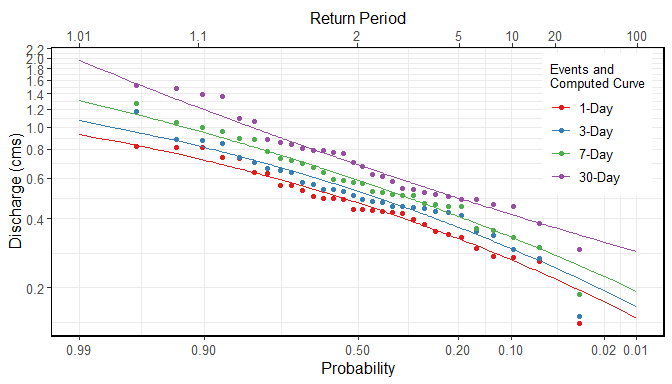
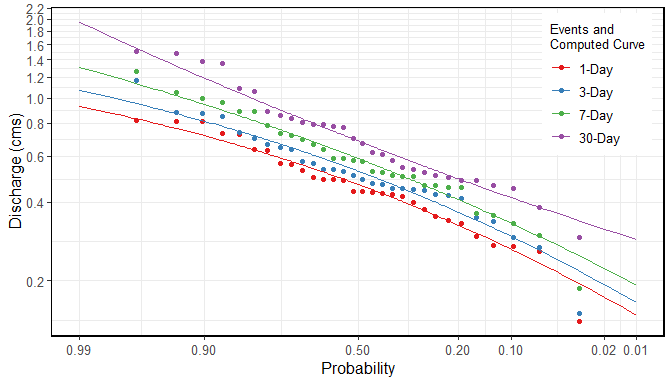
README updates

diff --git a/README.md b/README.md
@@ -3,8 +3,9 @@
 fasstr <img src="tools/readme/fasstr.PNG" align="right" />
 ==========================================================
 
-<a rel="Exploration" href="https://github.com/BCDevExchange/docs/blob/master/discussion/projectstates.md"><img alt="Being designed and built, but in the lab. May change, disappear, or be buggy." style="border-width:0" src="https://assets.bcdevexchange.org/images/badges/exploration.svg" title="Being designed and built, but in the lab. May change, disappear, or be buggy." /></a> [![Travis build status](https://travis-ci.org/bcgov/fasstr.svg?branch=master)](https://travis-ci.org/bcgov/fasstr)
+<a id="devex-badge" rel="Delivery" href="https://github.com/BCDevExchange/assets/blob/master/README.md"><img alt="In production, but maybe in Alpha or Beta. Intended to persist and be supported." style="border-width:0" src="https://assets.bcdevexchange.org/images/badges/delivery.svg" title="In production, but maybe in Alpha or Beta. Intended to persist and be supported." /></a> [![Travis build status](https://travis-ci.org/bcgov/fasstr.svg?branch=master)](https://travis-ci.org/bcgov/fasstr)
 
+</div>
 The Flow Analysis Summary Statistics Tool for R (`fasstr`) is a set of [R](http://www.r-project.org) functions to clean/prepare, summarize, analyze, trend, and visualize streamflow data. This package summarizes continuous daily mean streamflow data into various daily, monthly, annual, and long-term statistics, completes annual trends and frequency analyses, in both table and plot formats.
 
 Features
@@ -32,8 +33,8 @@ Installation
 To install the `fasstr` package, you need to install the `devtools` package then the `fasstr` package
 
 ``` r
-install.packages("devtools")
-devtools::install_github("bcgov/fasstr", build_vignettes = TRUE)
+install.packages("remotes")
+remotes::install_github("bcgov/fasstr")
 ```
 
 Then to call the `fasstr` functions you can either load the package using the `library()` function or access a specific function using a double-colon (e.g. `fasstr::calc_daily_stats()`). Several other packages will be installed in addition including [tidyhydat](https://cran.r-project.org/web/packages/tidyhydat/index.html) for data gathering, [zyp](https://cran.r-project.org/web/packages/zyp/index.html) for trending, [ggplot2](https://cran.r-project.org/web/packages/ggplot2/index.html) for creating plots, and [dplyr](https://cran.r-project.org/web/packages/dplyr/index.html) and [tidyr](https://cran.r-project.org/web/packages/tidyr/index.html) for various data wrangling and summarizing functions, amongst others. Many of the other packages are required for the frequency analysis functions.
@@ -55,15 +56,15 @@ Using the `data` option, a data frame of daily data containing columns of dates 
 
 ``` r
 head(data)
-# A tibble: 6 x 3
-  STATION_NUMBER Date       Value
-  <chr>          <date>     <dbl>
-1 08NM116        1949-04-01  1.13
-2 08NM116        1949-04-02  1.53
-3 08NM116        1949-04-03  2.07
-4 08NM116        1949-04-04  2.07
-5 08NM116        1949-04-05  2.21
-6 08NM116        1949-04-06  2.21
+#> # A tibble: 6 x 3
+#>   STATION_NUMBER Date       Value
+#>   <chr>          <date>     <dbl>
+#> 1 08NM116        1949-04-01  1.13
+#> 2 08NM116        1949-04-02  1.53
+#> 3 08NM116        1949-04-03  2.07
+#> 4 08NM116        1949-04-04  2.07
+#> 5 08NM116        1949-04-05  2.21
+#> 6 08NM116        1949-04-06  2.21
 ```
 
 Alternatively, you can directly extract a flow data set directly from a HYDAT database by listing station numbers in the `station_number` argument (ex. `station_number = "08NM116"` or `station_number = c("08NM116", "08NM242")`) while leavind the data arguments blank. A data frame of daily streamflow data for all stations listed will be extracted using `tidyhydat`. Use the following function to download a HYDAT database:
@@ -125,23 +126,23 @@ calc_longterm_stats(station_number = "08NM116",
                     end_year = 2010,
                     custom_months = 7:9, 
                     custom_months_label = "Summer")
-# A tibble: 14 x 8
-   STATION_NUMBER Month      Mean Median Maximum Minimum   P10   P90
- * <chr>          <fct>     <dbl>  <dbl>   <dbl>   <dbl> <dbl> <dbl>
- 1 08NM116        Jan        1.22  1        9.5    0.160 0.540  1.85
- 2 08NM116        Feb        1.16  0.970    4.41   0.140 0.474  1.99
- 3 08NM116        Mar        1.85  1.40     9.86   0.380 0.705  3.80
- 4 08NM116        Apr        8.32  6.26    37.9    0.505 1.63  17.5 
- 5 08NM116        May       23.6  20.8     74.4    3.83  9.33  41.2 
- 6 08NM116        Jun       21.5  19.5     84.5    0.450 6.10  38.9 
- 7 08NM116        Jul        6.48  3.90    54.5    0.332 1.02  15   
- 8 08NM116        Aug        2.13  1.57    13.3    0.427 0.775  4.29
- 9 08NM116        Sep        2.19  1.58    14.6    0.364 0.735  4.35
-10 08NM116        Oct        2.10  1.60    15.2    0.267 0.794  3.98
-11 08NM116        Nov        2.04  1.73    11.7    0.260 0.560  3.90
-12 08NM116        Dec        1.30  1.05     7.30   0.342 0.5    2.33
-13 08NM116        Long-term  6.17  1.89    84.5    0.140 0.680 19.3 
-14 08NM116        Summer     3.61  1.98    54.5    0.332 0.799  7.64
+#> # A tibble: 14 x 8
+#>    STATION_NUMBER Month      Mean Median Maximum Minimum   P10   P90
+#>  * <chr>          <fct>     <dbl>  <dbl>   <dbl>   <dbl> <dbl> <dbl>
+#>  1 08NM116        Jan        1.22  1        9.5    0.160 0.540  1.85
+#>  2 08NM116        Feb        1.16  0.970    4.41   0.140 0.474  1.99
+#>  3 08NM116        Mar        1.85  1.40     9.86   0.380 0.705  3.80
+#>  4 08NM116        Apr        8.32  6.26    37.9    0.505 1.63  17.5 
+#>  5 08NM116        May       23.6  20.8     74.4    3.83  9.33  41.2 
+#>  6 08NM116        Jun       21.5  19.5     84.5    0.450 6.10  38.9 
+#>  7 08NM116        Jul        6.48  3.90    54.5    0.332 1.02  15   
+#>  8 08NM116        Aug        2.13  1.57    13.3    0.427 0.775  4.29
+#>  9 08NM116        Sep        2.19  1.58    14.6    0.364 0.735  4.35
+#> 10 08NM116        Oct        2.10  1.60    15.2    0.267 0.794  3.98
+#> 11 08NM116        Nov        2.04  1.73    11.7    0.260 0.560  3.90
+#> 12 08NM116        Dec        1.30  1.05     7.30   0.342 0.5    2.33
+#> 13 08NM116        Long-term  6.17  1.89    84.5    0.140 0.680 19.3 
+#> 14 08NM116        Summer     3.61  1.98    54.5    0.332 0.799  7.64
 ```
 
 ### Plotting example 1: daily summary statistics
@@ -155,7 +156,7 @@ plot_daily_stats(station_number = "08NM116",
                  log_discharge = TRUE,
                  include_year = 1991,
                  ignore_missing = TRUE)
-$Daily_Statistics
+#> $Daily_Statistics
 ```
 
 ![](tools/readme/README-plot1-1.png)
@@ -168,7 +169,7 @@ Flow duration curves can be produced using the `plot_flow_duration()` function.
 plot_flow_duration(station_number = "08NM116",
                    start_year = 1981,
                    end_year = 2010)
-$Flow_Duration
+#> $Flow_Duration
 ```
 
 ![](tools/readme/README-plot2-1.png)
@@ -183,20 +184,20 @@ freq_results <- compute_annual_frequencies(station_number = "08NM116",
                                            end_year = 2010,
                                            roll_days = 7)
 freq_results$Freq_Fitted_Quantiles
-# A tibble: 11 x 4
-   Distribution Probability `Return Period` `7-Day`
-   <chr>              <dbl>           <dbl>   <dbl>
- 1 PIII               0.01           100      0.193
- 2 PIII               0.05            20      0.277
- 3 PIII               0.1             10      0.332
- 4 PIII               0.2              5      0.408
- 5 PIII               0.5              2      0.588
- 6 PIII               0.8              1.25   0.812
- 7 PIII               0.9              1.11   0.946
- 8 PIII               0.95             1.05   1.07 
- 9 PIII               0.975            1.03   1.17 
-10 PIII               0.98             1.02   1.21 
-11 PIII               0.99             1.01   1.31 
+#> # A tibble: 11 x 4
+#>    Distribution Probability `Return Period` `7-Day`
+#>    <chr>              <dbl>           <dbl>   <dbl>
+#>  1 PIII               0.01           100      0.193
+#>  2 PIII               0.05            20      0.277
+#>  3 PIII               0.1             10      0.332
+#>  4 PIII               0.2              5      0.408
+#>  5 PIII               0.5              2      0.588
+#>  6 PIII               0.8              1.25   0.812
+#>  7 PIII               0.9              1.11   0.946
+#>  8 PIII               0.95             1.05   1.07 
+#>  9 PIII               0.975            1.03   1.17 
+#> 10 PIII               0.98             1.02   1.21 
+#> 11 PIII               0.99             1.01   1.31
 ```
 
 The probabilty of observed extreme events can also be plotted (using selected plotting position) along with the computed quantiles curve for comparison.

diff --git a/NEWS.md b/NEWS.md
@@ -1,15 +1,17 @@
 fasstr 0.2.8
 =========================
 
-Updated: 27 November 2018
+Updated: 11 December 2018
 
 #### Updates:
 
+  # README updates
   * Renamed calc_lt_mad() and calc_lt_percentile() to calc_longterm_mad() and calc_longterm_percentile(), respectively.
   * Changed the plot_missing_dates points and lines to bar plots.
   * changed add_seasons() function from adding two 4 and 2 seasons columns to adding own custom seasons of desired lengths. All subsequent function and documentation updated were also completed.
   * Renamed some annual and seasonal total volume axes, column names, and plots names.
   * Updated the licence year in .R files.
+  * Temporarily removed 'Return Period' axis from frequency plots due to ggplot2 3.0.1 issues.
   
 #### Bugs Fixed:
 
